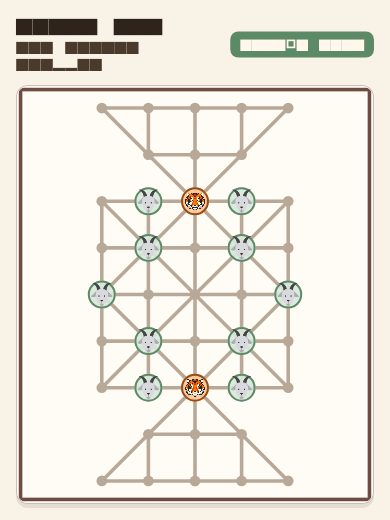
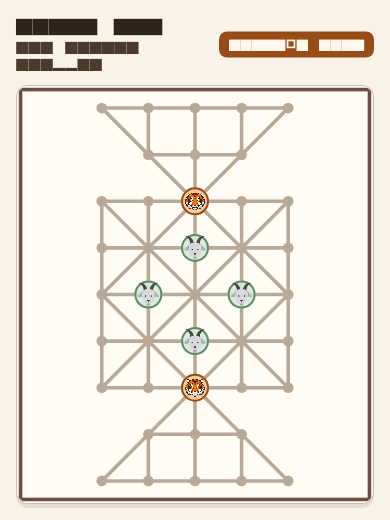
ui improvements

diff --git a/lib/src/tutorial/tutorial_snapshots.dart b/lib/src/tutorial/tutorial_snapshots.dart
@@ -1,6 +1,7 @@
 import 'package:flutter/material.dart';
 
 import '../controllers/game_controller.dart';
+import '../models/game_constants.dart';
 import '../models/game_state.dart';
 import '../theme/app_theme.dart';
 
@@ -88,6 +89,118 @@ class TutorialSnapshots {
         pieces: _openingPieces,
         currentTurn: PieceType.tiger,
       );
+
+  /// Tiger selected at game start — valid first moves highlighted.
+  static UiGameState get tigerStarts {
+    final engine = GameState.initial();
+    const tiger = 'r2-c2';
+    return _uiFromEngine(
+      engine,
+      selectedNode: tiger,
+      validTargets: engine.getTigerMoves(tiger).map((m) => m.target).toSet(),
+    );
+  }
+
+  /// Tiger piece selected with slide targets (after opening).
+  static UiGameState get tigerMove => tigerStarts;
+
+  /// Tiger jump capture — goat between tiger and landing node.
+  static UiGameState get tigerCapture => tigerCaptureDemo;
+
+  static UiGameState get tigerCaptureDemo {
+    final engine = GameState.initial();
+    engine.pieceState['r2-c3'] = null;
+    engine.pieceState['r2-c4'] = null;
+    engine.pieceState['r2-c5'] = PieceType.goat;
+    engine.pieceState['r2-c6'] = PieceType.tiger;
+    const tiger = 'r2-c2';
+    final jumps = engine.getTigerMoves(tiger).where((m) => m.isJump).toList();
+    if (jumps.isNotEmpty) {
+      final jump = jumps.first;
+      return _uiFromEngine(
+        engine,
+        selectedNode: tiger,
+        validTargets: {jump.target},
+        hintHighlightNodes: {tiger, jump.jumped!, jump.target},
+      );
+    }
+    return tigerStarts;
+  }
+
+  /// Goat placement turn — empty nodes highlighted.
+  static UiGameState get goatPlacement {
+    final engine = GameState.initial();
+    final moves = engine.getTigerMoves('r2-c2');
+    if (moves.isNotEmpty) {
+      engine.applyMove('r2-c2', moves.first.target);
+    }
+    return _uiFromEngine(
+      engine,
+      validTargets: engine.placementTargets.toSet(),
+      showPlacementDots: true,
+    );
+  }
+
+  /// Movement phase — goat selected with slide targets.
+  static UiGameState get goatMove {
+    final engine = GameState.initial();
+    engine.gamePhase = 'movement';
+    engine.goatsToPlace = 0;
+    const goat = 'r2-c3';
+    return _uiFromEngine(
+      engine,
+      selectedNode: goat,
+      validTargets: engine.getGoatMoves(goat).map((m) => m.target).toSet(),
+    );
+  }
+
+  /// Goats win — tigers surrounded.
+  static UiGameState get goatsWin {
+    final engine = GameState.initial();
+    engine.gamePhase = 'movement';
+    engine.goatsToPlace = 0;
+    engine.winner = 'goats';
+    return _uiFromEngine(engine);
+  }
+
+  /// Tigers win — 12 goats captured.
+  static UiGameState get tigersWin {
+    final engine = GameState.initial();
+    engine.gamePhase = 'movement';
+    engine.goatsToPlace = 0;
+    engine.capturedGoats = GameConstants.goatsToCaptureForTigerWin;
+    engine.winner = 'tigers';
+    for (final node in ['r1-c4', 'r3-c4', 'r2-c3', 'r2-c5']) {
+      engine.pieceState[node] = null;
+    }
+    return _uiFromEngine(engine);
+  }
+
+  static UiGameState _uiFromEngine(
+    GameState engine, {
+    String? selectedNode,
+    Set<String>? validTargets,
+    bool showPlacementDots = false,
+    Set<String> hintHighlightNodes = const {},
+  }) {
+    final pieces = <BoardPiece>[];
+    for (final entry in engine.pieceState.entries) {
+      final piece = entry.value;
+      if (piece != null) {
+        pieces.add(BoardPiece(type: piece, node: entry.key));
+      }
+    }
+    return UiGameState(
+      pieces: pieces,
+      currentTurn: engine.currentTurn,
+      validTargets: validTargets ?? const {},
+      selectedNode: selectedNode,
+      winner: engine.winner,
+      capturedGoats: engine.capturedGoats,
+      showPlacementDots: showPlacementDots,
+      hintHighlightNodes: hintHighlightNodes,
+    );
+  }
 }
 
 class TutorialStepData {

diff --git a/lib/tools/capture_screenshots_main.dart b/lib/tools/capture_screenshots_main.dart
@@ -53,7 +53,7 @@ class _CaptureScreenshotsAppState extends State<_CaptureScreenshotsApp> {
           path:
               '$_tutorialDir/${(s.index + 1).toString().padLeft(2, '0')}-${_slug(s.title)}.png',
           builder: () => _TutorialPageCapture(step: s),
-          size: Size(390, s.layout == TutorialBoardLayout.dualWin ? 560 : 420),
+          size: Size(390, s.board != null ? 520 : 420),
         ),
       ),
   ];
@@ -162,11 +162,18 @@ class _TutorialPageCapture extends StatelessWidget {
             ),
             const SizedBox(height: 8),
             Text(
-              step.description,
+              step.body,
               style: AppTheme.text(size: 14, color: AppTheme.textSecondary),
             ),
-            const SizedBox(height: 16),
-            Expanded(child: TutorialBoardPanel(step: step)),
+            if (step.board != null) ...[
+              const SizedBox(height: 16),
+              Expanded(
+                child: TutorialBoardPanel(
+                  board: step.board!,
+                  caption: step.boardCaption,
+                ),
+              ),
+            ],
           ],
         ),
       ),

diff --git a/test/history_service_test.dart b/test/history_service_test.dart
@@ -22,7 +22,11 @@ void main() {
         playedAt: DateTime.utc(2026, 5, 23),
       );
 
-      await historyService.saveResult(result);
+      await historyService.saveResult(
+        result,
+        playerName: 'Tiger',
+        humanWon: true,
+      );
       final loaded = await historyService.loadHistory();
 
       expect(loaded, hasLength(1));
@@ -44,7 +48,11 @@ void main() {
         playedAt: DateTime.utc(2026, 5, 23),
       );
 
-      await historyService.saveResult(result);
+      await historyService.saveResult(
+        result,
+        playerName: 'Goat',
+        humanWon: true,
+      );
       await historyService.clearHistory();
       final loaded = await historyService.loadHistory();
 

diff --git a/lib/src/services/ai_service.dart b/lib/src/services/ai_service.dart
@@ -13,11 +13,9 @@ class AiService {
     AiDifficulty difficulty = AiDifficulty.medium,
     Random? random,
   })  : _difficulty = difficulty,
-        _random = random ?? Random(),
-        _minimax = AiMinimax(random: random);
+        _minimax = AiMinimax(random: random ?? Random());
 
   final AiDifficulty _difficulty;
-  final Random _random;
   final AiMinimax _minimax;
 
   AiDifficulty get difficulty => _difficulty;

diff --git a/lib/tools/board_screenshot_catalog.dart b/lib/tools/board_screenshot_catalog.dart
@@ -28,7 +28,7 @@ class BoardScreenshotCatalog {
           id: '04-tiger-capture',
           title: 'Tiger capture',
           subtitle: 'Jump over a goat to capture',
-          ui: TutorialSnapshots.tigerCapture ?? TutorialSnapshots.tigerCaptureDemo,
+          ui: TutorialSnapshots.tigerCapture,
         ),
         BoardScreenshotPhase(
           id: '05-goat-placement',

diff --git a/test/widget_test.dart b/test/widget_test.dart
@@ -13,6 +13,6 @@ void main() {
     await tester.pumpWidget(const PuliMekaApp());
 
     expect(find.text('Puli Meka'), findsOneWidget);
-    expect(find.text('Start Offline Game'), findsOneWidget);
+    expect(find.text('Start Game'), findsOneWidget);
   });
 }

diff --git a/test/capture_board_screenshots_test.dart b/test/capture_board_screenshots_test.dart
@@ -1,5 +1,4 @@
 import 'dart:io';
-import 'dart:ui' as ui;
 
 import 'package:flutter/material.dart';
 import 'package:flutter/rendering.dart';

diff --git a/docs/IOS_PUBLISH_CHECKLIST.md b/docs/IOS_PUBLISH_CHECKLIST.md
@@ -1,0 +1,127 @@
+# iOS App Store publish checklist (2.0.4 build 16)
+
+## Admin role but can't upload?
+
+**App Store Connect Admin** and **Apple Developer signing** are separate.
+
+| Portal | What Admin can do |
+|--------|-------------------|
+| [App Store Connect](https://appstoreconnect.apple.com) | Manage app listing, TestFlight, users |
+| [Apple Developer](https://developer.apple.com/account) | Create **Distribution** certificates & upload signing |
+
+You need **both**:
+
+1. Active **Apple Developer Program** membership ($99/year) on team **GQ5YBDCV3L**
+2. Your Apple ID listed at **developer.apple.com → Account → People** as **Admin** or **Developer** (not App Store Connect only)
+3. An **Apple Distribution** certificate in Keychain (not just Apple Development)
+
+### Check your access
+
+1. Sign in at [developer.apple.com/account](https://developer.apple.com/account)
+2. **Membership** → status must be **Active**
+3. **People** → your email must appear with role **Admin**, **Account Holder**, or **Developer**
+4. **Certificates** → you should be able to click **+** and create **Apple Distribution**
+
+If you are **only** in App Store Connect (Users and Access) but **not** on developer.apple.com People, ask the **Account Holder** to invite you there with **Admin** role.
+
+### Create Distribution certificate
+
+**Option A — Xcode**
+
+1. **Xcode → Settings → Accounts**
+2. Select **nageshwar521.sg@gmail.com** → your team (verify Team ID in Xcode)
+3. **Manage Certificates…** → **+** → **Apple Distribution**
+4. If **+** is disabled, your Developer portal role or membership is the blocker (see above)
+
+**Option B — Web**
+
+1. [developer.apple.com → Certificates](https://developer.apple.com/account/resources/certificates/list)
+2. **+** → **Apple Distribution** → follow CSR steps → download → double-click to install
+
+Then re-run `./scripts/build_ios_release.sh` or **Distribute App** from Organizer.
+
+### Using `nageshwar521.sg@gmail.com` (not the old Apple ID)
+
+Your Mac may still have certificates for **nageshwar.uideveloper@gmail.com**. Switch fully in Xcode:
+
+1. **Xcode → Settings → Accounts**
+2. Click **+** → add **nageshwar521.sg@gmail.com** (if not listed)
+3. Select that account → confirm team **GQ5YBDCV3L** appears (or note the new Team ID)
+4. **Manage Certificates…** → **+** → **Apple Distribution** (under the new account)
+5. Optional: remove the old **nageshwar.uideveloper@gmail.com** account to avoid Xcode picking the wrong cert
+6. Open `ios/Runner.xcworkspace` → **Runner** → **Signing & Capabilities** → Team = team under **nageshwar521.sg@gmail.com**
+
+If Team ID changed, update `DEVELOPMENT_TEAM` in `ios/Runner.xcodeproj/project.pbxproj` and `ios/ExportOptions.plist` to match.
+
+Verify in Terminal (should show the new email):
+
+```bash
+security find-identity -v -p codesigning
+```
+
+You need **Apple Distribution: nageshwar521.sg@gmail.com** before App Store upload will work.
+
+## 1. Sign in to Apple (one-time if not done)
+
+1. Open **Xcode → Settings → Accounts**
+2. Click **+** → **Apple ID** → sign in with **nageshwar521.sg@gmail.com**
+3. Select your team (confirm Team ID — may still be **GQ5YBDCV3L**)
+4. Click **Manage Certificates…** → **+** → **Apple Distribution** (if missing)
+
+## 2. Build archive (already done)
+
+```bash
+./scripts/build_ios_release.sh
+```
+
+Archive path:
+
+`build/ios/archive/Runner.xcarchive`
+
+If IPA export fails with *No signing certificate "iOS Distribution"*, use Xcode Organizer (step 3).
+
+## 3. Upload from Xcode Organizer
+
+```bash
+open build/ios/archive/Runner.xcarchive
+```
+
+Or: **Xcode → Window → Organizer** → select **Runner** archive (2.0.4, 16).
+
+1. Click **Distribute App**
+2. **App Store Connect** → **Upload**
+3. **Automatically manage signing**
+4. Upload
+
+Xcode can create the Distribution certificate and provisioning profile during this flow.
+
+## 4. App Store Connect
+
+1. [App Store Connect](https://appstoreconnect.apple.com) → **Puli Meka**
+2. **Privacy Policy URL:** `https://alnlabs.com/puli-meka/privacy-policy`
+3. **TestFlight** → wait for processing → add build **16**
+4. **App Store** tab → version **2.0.4** → select build **16**
+
+### What's New
+
+```
+• Better display on iPad and larger screens
+• Improved AI difficulty levels
+• More reliable ad loading
+• Bug fixes and performance improvements
+```
+
+### Export compliance
+
+Build includes `ITSAppUsesNonExemptEncryption = false`. If prompted in Connect, answer **No** for custom encryption.
+
+## 5. Optional: export IPA via CLI (after Distribution cert exists)
+
+```bash
+xcodebuild -exportArchive \
+  -archivePath build/ios/archive/Runner.xcarchive \
+  -exportPath build/ios/ipa \
+  -exportOptionsPlist ios/ExportOptions.plist
+```
+
+Upload `build/ios/ipa/*.ipa` with [Transporter](https://apps.apple.com/app/transporter/id1450874784).
